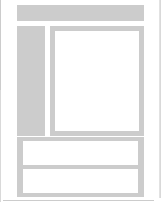
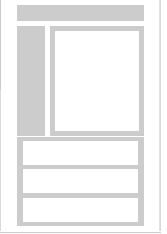
create two new regions

Changed region(s): [[0.0909, 0.0, 0.8788, 0.9802], [0.9394, 0.0, 1.0, 1.0], [0.0, 0.9802, 0.0303, 1.0]]

diff --git a/sites/all/modules/custom/know4pol_ecl/modules/multisite_inpage_nav/ds/ne_bootstrap_3_9_stacked/ne-bootstrap-3-9-stacked.tpl.php b/sites/all/modules/custom/know4pol_ecl/modules/multisite_inpage_nav/ds/ne_bootstrap_3_9_stacked/ne-bootstrap-3-9-stacked.tpl.php
@@ -34,7 +34,7 @@
       <thead>
         <!-- Those contain a hidden special char to avoid ECL bug. Char U+FEFF -->
         <tr>
-          <th scope="col">Additional information</th>
+          <th scope="col">Get this resource</th>
           <th scope="col"></th>
         </tr>
       </thead>
@@ -49,12 +49,27 @@
       <thead>
         <!-- Those contain a hidden special char to avoid ECL bug. Char U+FEFF -->
         <tr>
-          <th scope="col">Related links</th>
+          <th scope="col">Additional information</th>
           <th scope="col"></th>
         </tr>
       </thead>
       <tbody>
         <?php print $footer; ?>
+      </tbody>
+    </table>
+    <?php endif; ?>
+    <?php if ($footer_bottom): ?>
+    <!-- Table with empty heading - enhanced -->
+    <table class="ecl-table ecl-table--responsive">
+      <thead>
+        <!-- Those contain a hidden special char to avoid ECL bug. Char U+FEFF -->
+        <tr>
+          <th scope="col">Related links</th>
+          <th scope="col"></th>
+        </tr>
+      </thead>
+      <tbody>
+        <?php print $footer_bottom; ?>
       </tbody>
     </table>
     <?php endif; ?>

diff --git a/sites/all/themes/know4pol_ec_europa/templates/field/field--ds-region--footer-bottom.tpl.php b/sites/all/themes/know4pol_ec_europa/templates/field/field--ds-region--footer-bottom.tpl.php
@@ -1,0 +1,15 @@
+<?php
+
+/**
+ * @file
+ * Contains template file.
+ */
+?>
+<tr>
+    <td><?php print $label ?></td>
+    <td<?php print $atomium['attributes']['wrapper']; ?>>
+      <?php foreach ($items as $delta => $item) : ?>
+          <div<?php print $atomium['attributes'][$delta]; ?>><?php print render($item); ?></div>
+      <?php endforeach; ?>
+    </td>
+</tr>
